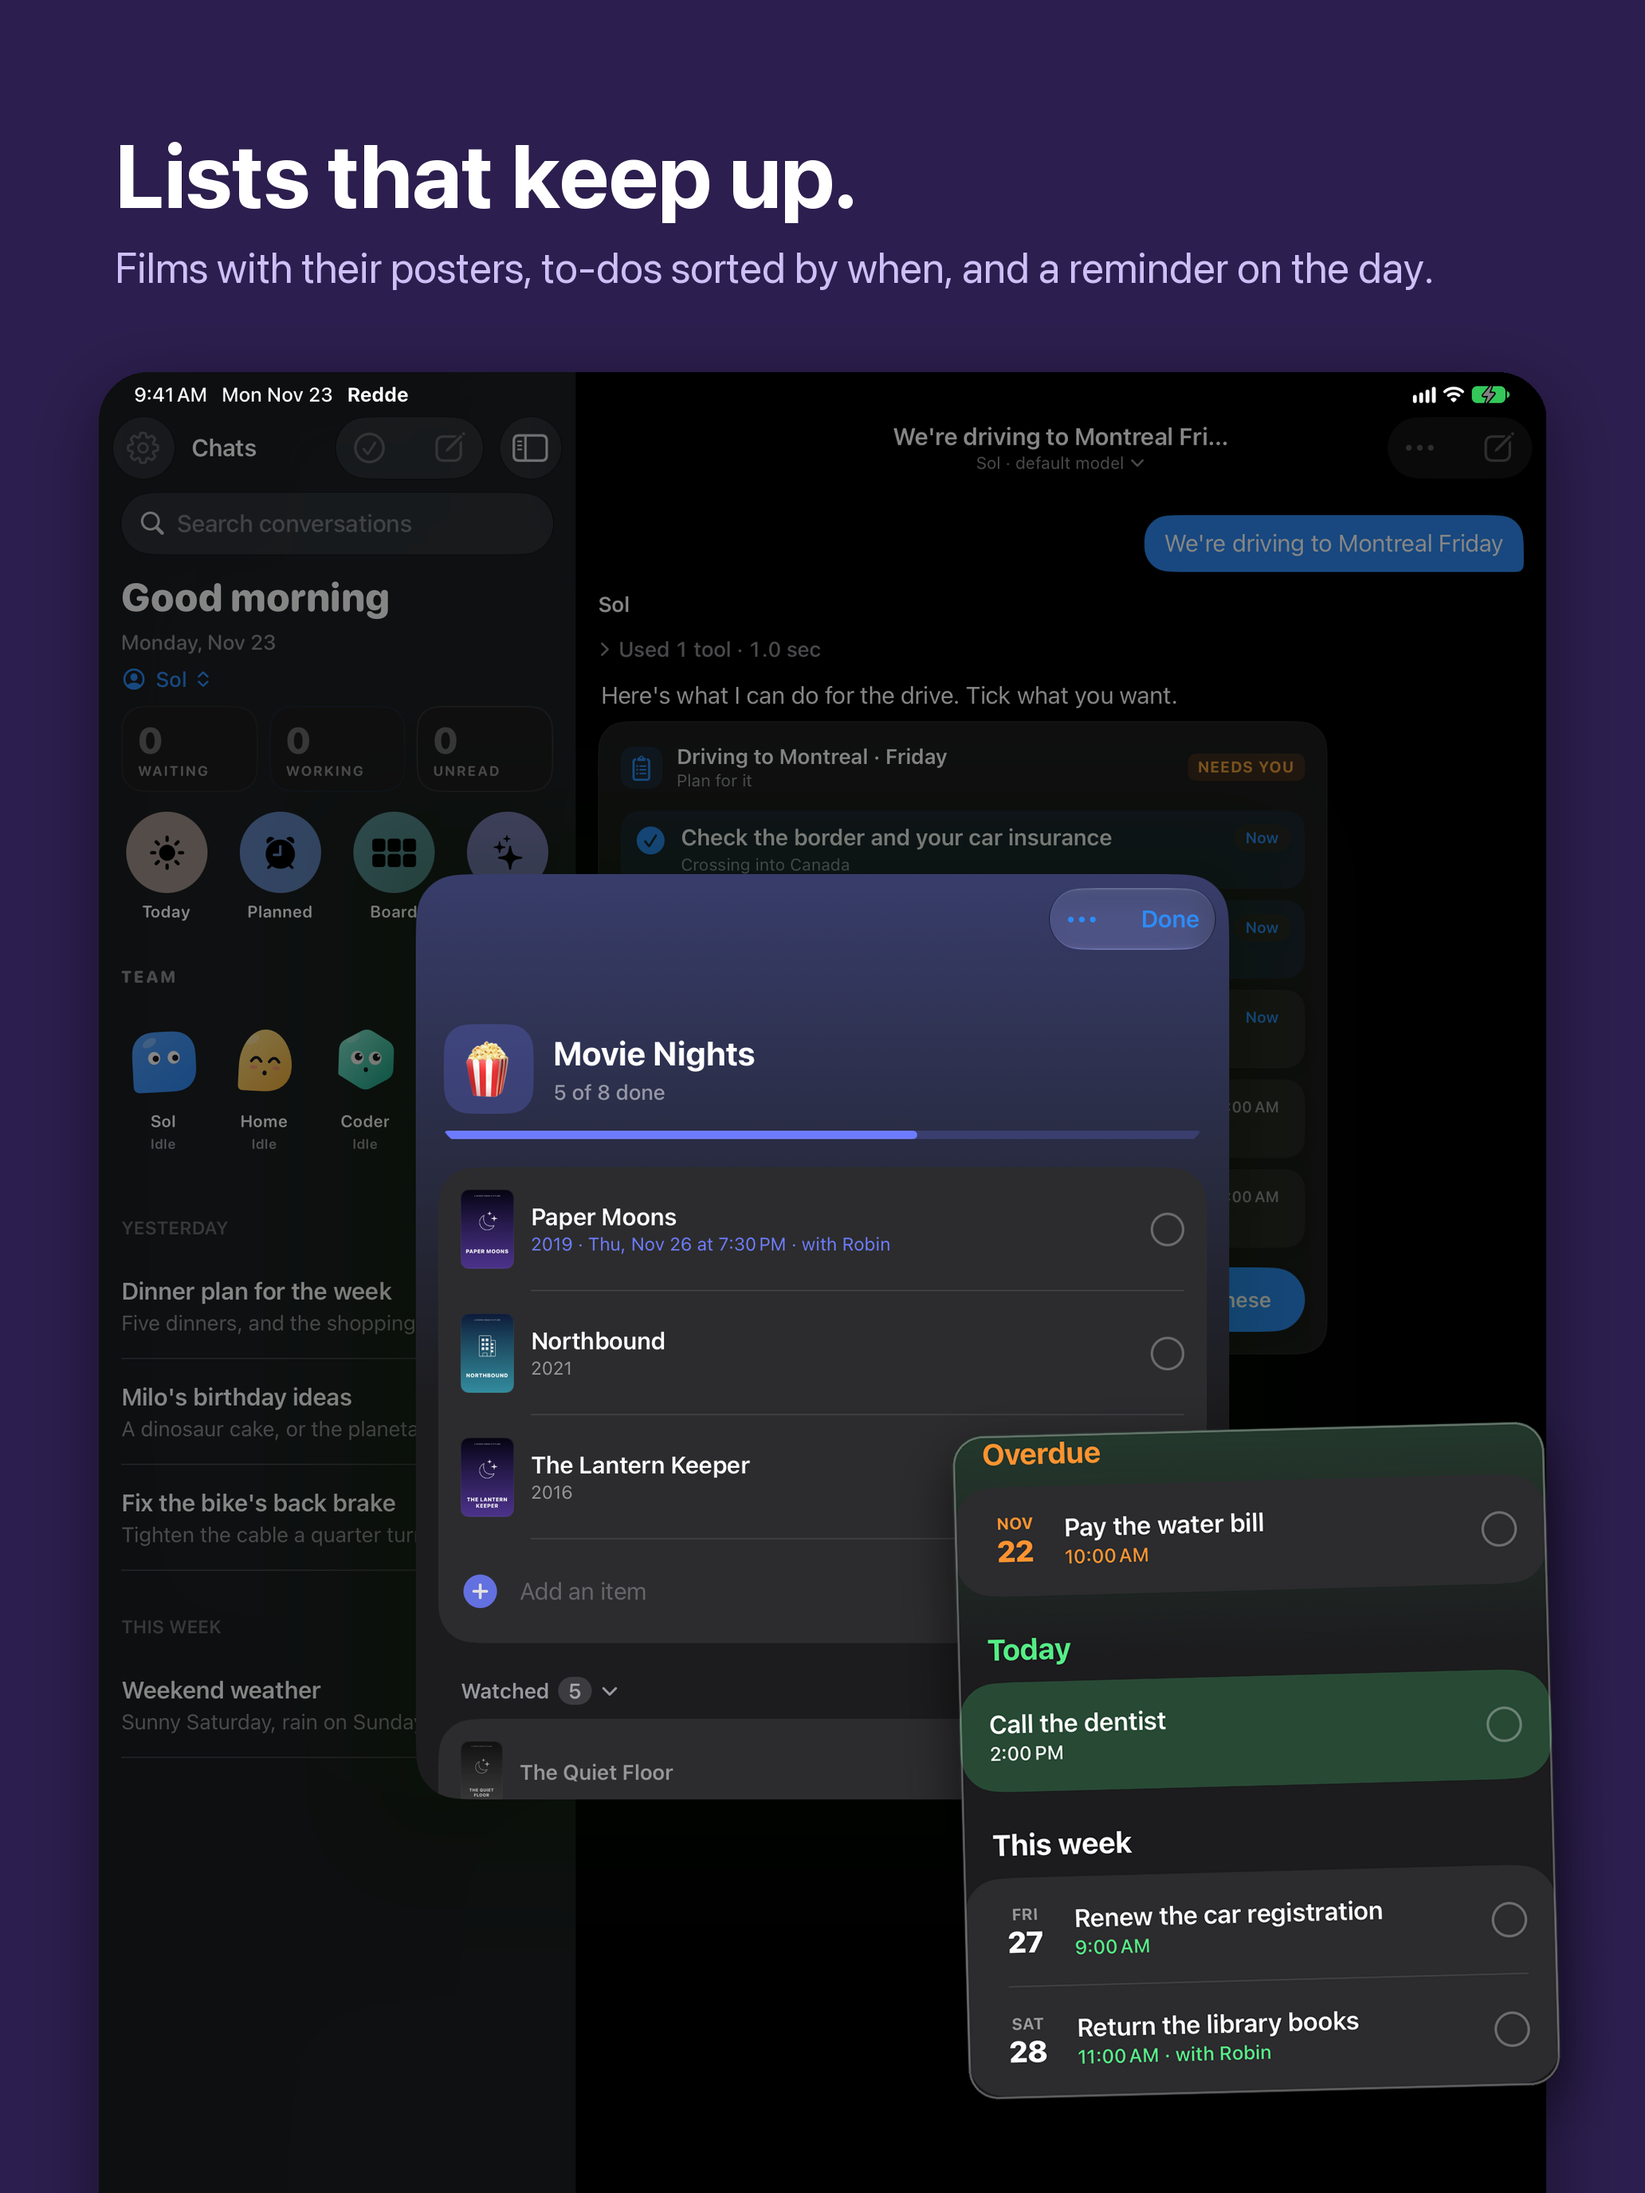
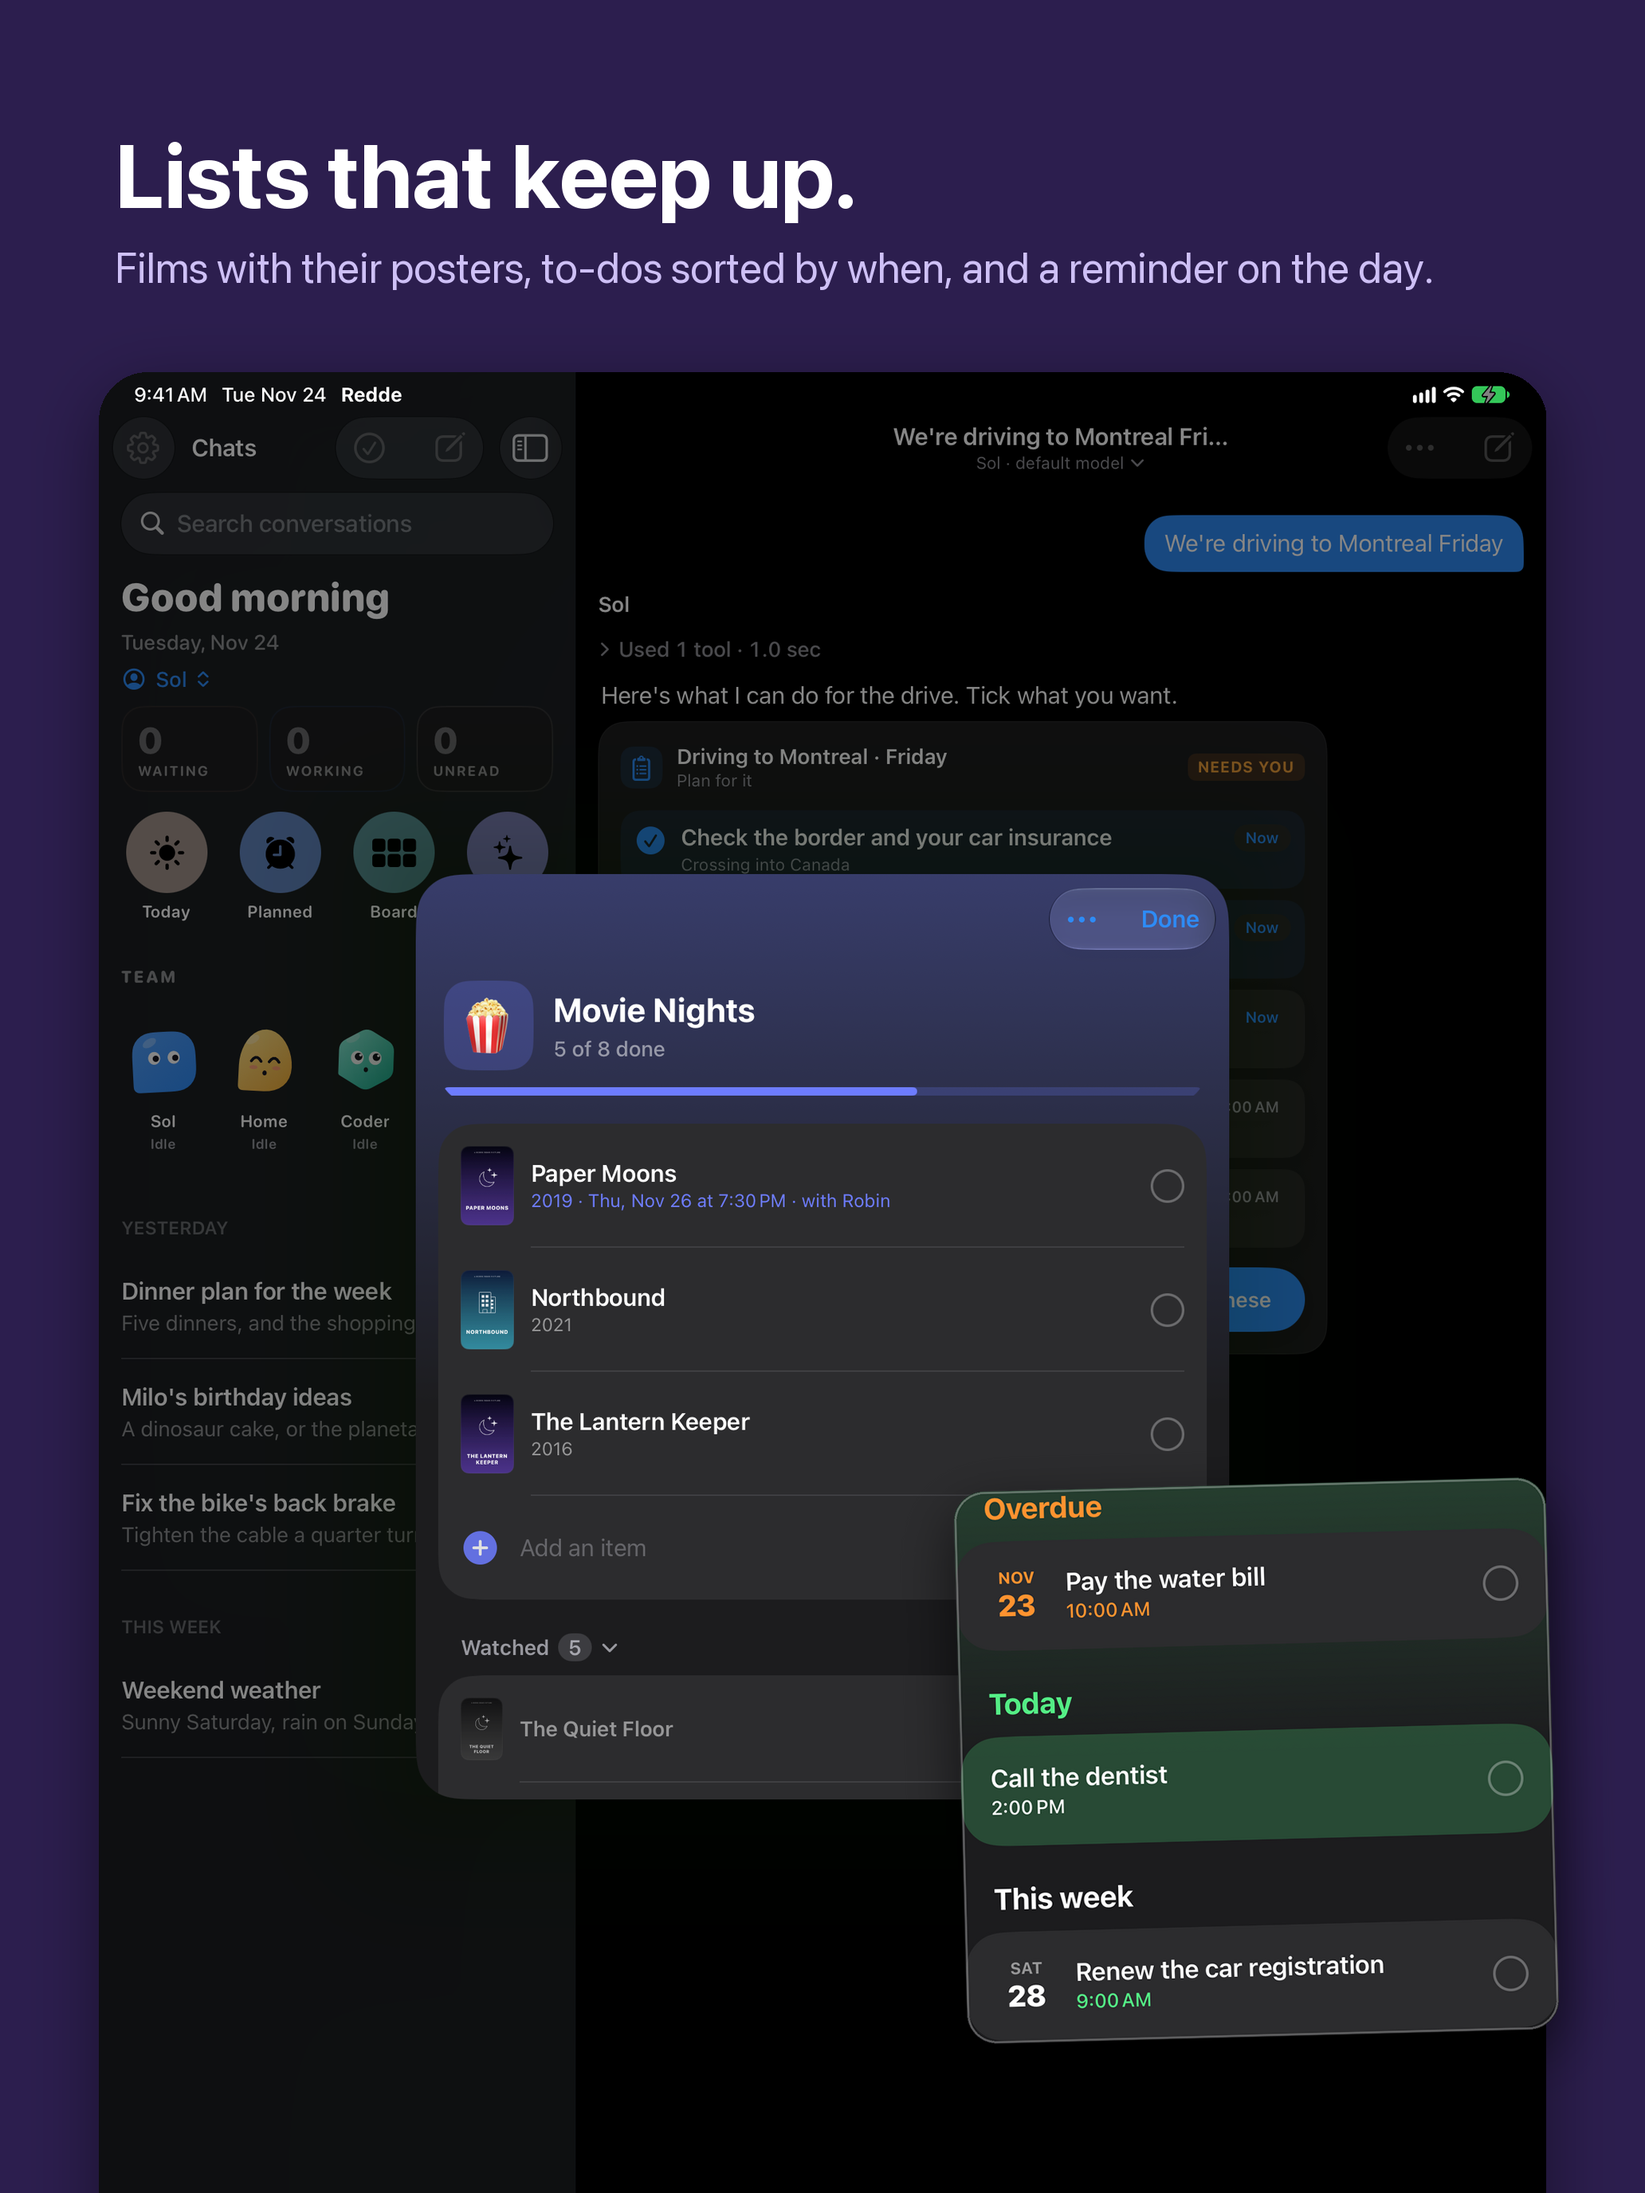
2.7 (303) store media: the Lists slots with the list's name close under the bar, and the proactive App Previews
The iPhone's and iPad's Lists screenshots retaken after the spacing fix (the House To-Dos card
moved to fit). Both App Previews are now the proactive cut, ending on the film list with a film
ticked into Watched; the Montreal plan card, 6 s in, is the frame shown before they play.

Claude-Session: https://claude.ai/code/session_01U63qthNhNmE4UNWX56qMNU

diff --git a/design/screenshots/compose.py b/design/screenshots/compose.py
@@ -144,7 +144,7 @@ MEETING = ('ph-deck-3.png', (48, 1615, 1087, 2182), 66)
 # and a to-do list sorted by when (StoreProactiveShotsUITests, raws in tmp/shots-2.7p-raw).
 LEAVE = ('ph-leave27.png', (24, 176, 1296, 405), 56)        # Time to leave for Dentist
 DEAL = ('ph-purchase.png', (48, 411, 1272, 2061), 54)       # the agent's pick, the deal meter, Watch price
-BYWHEN = ('ph-bywhen-before.png', (60, 870, 1260, 2215), 60)  # House To-Dos: Overdue, Today, This week
+BYWHEN = ('ph-bywhen-before.png', (60, 780, 1260, 1900), 60)  # House To-Dos: Overdue, Today, This week
 
 def compose_cards(src, dst, headline, sub, bg, fg, subfg, pad, cards, blank_below=None):
     """A screen with cards from other screens set over its empty lower part, each turned a little
@@ -237,7 +237,7 @@ phone = [
    [(LEAVE, 0.90, (0.5, 0.085), -1.0)]),
   ('ph-goal',     '05-goals',    'Goals, step by step.',         'Tick off your steps as you go. Your agent works on its own and checks in on yours.', CORAL, WHITE, PEACH),
   ('ph-clean-before', '06-lists', 'Lists that keep up.',         'Films with their posters, to-dos sorted by when, and a reminder on the day.', PLUM, WHITE, LILAC,
-   [(BYWHEN, 0.66, (0.5, 0.83), 1.2)], 1900),
+   [(BYWHEN, 0.64, (0.5, 0.755), 1.2)], 1790),
   ('ph-shipped27-calm', '07-watch', 'It keeps watch.',          '“Tell me when it ships.” Prices, parcels and replies: your agent checks, and speaks up when it changes.', (24, 32, 46), WHITE, MIST,
    [(DEAL, 0.46, (0.5, 0.775), -1.2)], 1800),
   ('ph-inbox',    '08-inbox',    'Your inbox, sorted.',          'Seven piles and your own, sorted on your server. Nothing sends until you approve it.', BLUE, WHITE, MIST,

diff --git a/scripts/app-store-push.py b/scripts/app-store-push.py
@@ -61,8 +61,10 @@ LIMITS = {'promotionalText': 170, 'keywords': 100, 'description': 4000, 'whatsNe
 # full frame, 29.4 s; the forecast card (9 s in) is the frame shown before they play.
 # 2.7 (2026-11-22): the iPhone's is the agents cut (design/video/make_27.py), full frame, 29.4 s,
 # Claude Code's approval (15 s in) shown before it plays; the iPad keeps the day cut.
-PREVIEWS = [('IPHONE_67', [('design/redde-27-app-preview-iphone.mp4', '00:00:15:00')]),
-            ('IPAD_PRO_3GEN_129', [('design/redde-27-app-preview-ipad.mp4', '00:00:15:00')])]
+# 2.7 (2026-11-24): both are the proactive cut (design/video/make_27_proactive.py [ipad]), full
+# frame, 29.4 s, ending on the film list; the Montreal plan card (6 s in) is shown before they play.
+PREVIEWS = [('IPHONE_67', [('design/redde-27-proactive-app-preview-iphone.mp4', '00:00:06:00')]),
+            ('IPAD_PRO_3GEN_129', [('design/redde-27-proactive-app-preview-ipad.mp4', '00:00:06:00')])]
 # The Mac's (`--mac`): 2880 × 1800, App Store Connect's largest 16:10 size, made by
 # design/screenshots/mac.py.
 MAC = '--mac' in sys.argv
